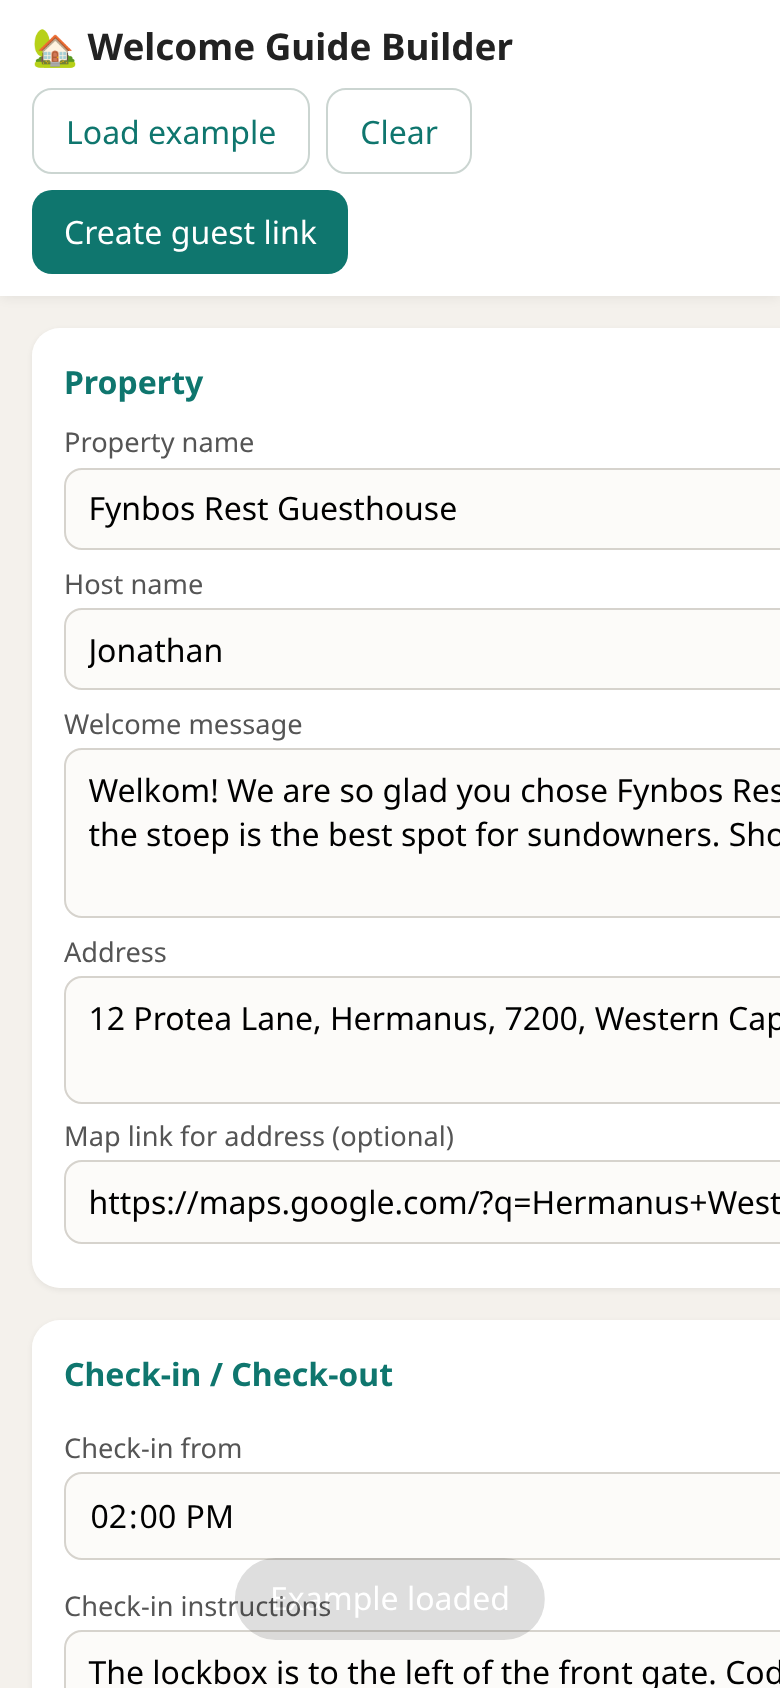
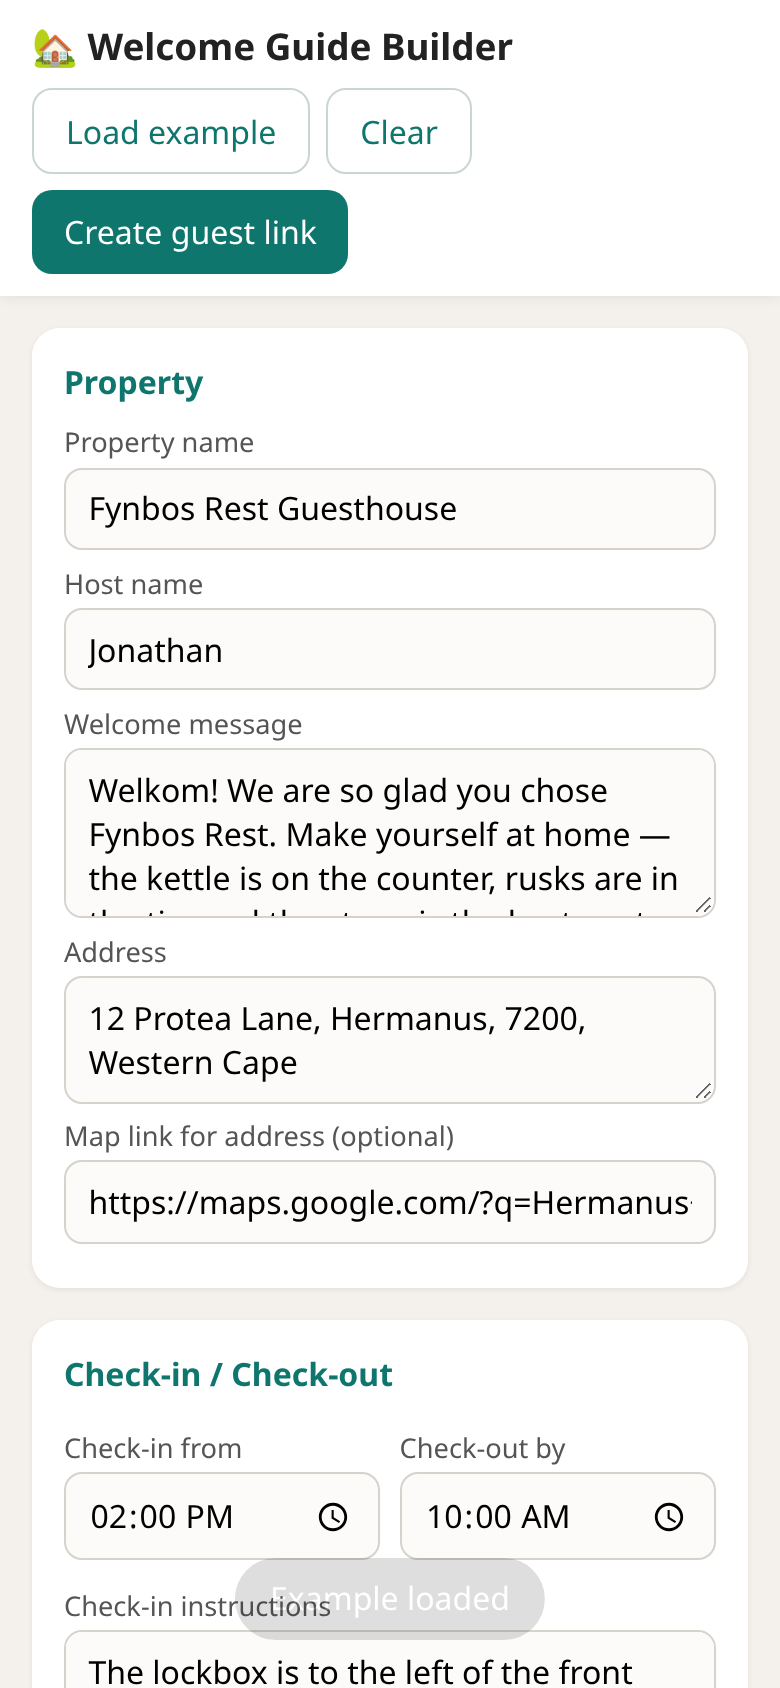
QA fixes: tap targets, labels/hints, intro, edit/preview, QR print/PNG, undo, tick persistence, nav spy

diff --git a/app.js b/app.js
@@ -1,7 +1,10 @@
 (function(){
 const KEY='wg-v1';
 const LISTS={rules:['text'],howto:['title','note'],recs:['name','type','note','map'],emergency:['label','number'],checklist:['text']};
-const PH={text:'',title:'Appliance (e.g. Geyser)',note:'Note',name:'Name',type:'Type (restaurant, beach…)',map:'Map link (optional)',label:'Label',number:'Number'};
+const LB={rules:{text:'Rule'},howto:{title:'Appliance / topic',note:'How it works'},recs:{name:'Place name',type:'Type',note:'Why you recommend it',map:'Map link (optional)'},emergency:{label:'Who (e.g. Armed response)',number:'Phone number'},checklist:{text:'Checkout task'}};
+const EMERG=['10111','10177','112'];
+const PH0={text:'',title:'Appliance (e.g. Geyser)',note:'Note',name:'Name',type:'Type (restaurant, beach…)',map:'Map link (optional)',label:'Label',number:'Number'};
+const PH={text:'',title:'e.g. Load-shedding & inverter, Gate remote',note:'e.g. Inverter runs lights + Wi-Fi; avoid kettle/oven',name:'e.g. Bientang\'s Cave',type:'e.g. Restaurant, Beach',map:'Paste Google Maps share link',label:'e.g. Armed response',number:'e.g. 021 555 1234'};
 const blank=()=>({property:'',host:'',welcome:'',address:'',addressMap:'',checkin:'14:00',checkout:'10:00',checkinNotes:'',checkoutNotes:'',wifiName:'',wifiPass:'',parking:'',hostPhone:'',hostWhatsapp:'',
  rules:[],howto:[],recs:[],checklist:[],emergency:[{label:'Police (SAPS)',number:'10111'},{label:'Ambulance',number:'10177'},{label:'Emergency from mobile',number:'112'}]});
 const EXAMPLE={property:'Fynbos Rest Guesthouse',host:'Jonathan',welcome:'Welkom! We are so glad you chose Fynbos Rest. Make yourself at home — the kettle is on the counter, rusks are in the tin, and the stoep is the best spot for sundowners. Shout if you need anything.',
@@ -20,7 +23,7 @@ const esc=s=>String(s==null?'':s).replace(/[&<>"']/g,c=>({'&':'&amp;','<':'&lt;'
 const tel=n=>String(n).replace(/[^\d+]/g,'');
 const wa=n=>{let d=String(n).replace(/\D/g,'');if(d.startsWith('0'))d='27'+d.slice(1);return d};
 const safeUrl=u=>/^https?:\/\//i.test(u||'')?u:'';
-function toast(m){const t=$('#toast');t.textContent=m;t.classList.add('on');clearTimeout(t._t);t._t=setTimeout(()=>t.classList.remove('on'),1600)}
+function toast(m,undo){const t=$('#toast'),u=$('#toastUndo');$('#toastMsg').textContent=m;u.hidden=!undo;u.onclick=()=>{undo();t.classList.remove('on')};t.classList.add('on');clearTimeout(t._t);t._t=setTimeout(()=>t.classList.remove('on'),undo?5000:1600)}
 async function copy(txt,msg){try{await navigator.clipboard.writeText(txt)}catch(e){const a=document.createElement('textarea');a.value=txt;document.body.appendChild(a);a.select();document.execCommand('copy');a.remove()}toast(msg||'Copied')}
 window.__wgCopy=copy;
 
@@ -36,9 +39,9 @@ function render(d){
  const em=(d.emergency||[]).filter(e=>e.number);let c='';
  if(d.hostPhone)c+=`<div class="contact"><span>Host${d.host?' – '+esc(d.host):''}</span><a class="pill" href="tel:${esc(tel(d.hostPhone))}">📞 Call</a></div>`;
  if(d.hostWhatsapp)c+=`<div class="contact"><span>WhatsApp host</span><a class="pill wa" target="_blank" rel="noopener" href="https://wa.me/${wa(d.hostWhatsapp)}">💬 WhatsApp</a></div>`;
- c+=em.map(e=>`<div class="contact"><span>${esc(e.label)}</span><a class="pill red" href="tel:${esc(tel(e.number))}">📞 ${esc(e.number)}</a></div>`).join('');
+ c+=em.map(e=>`<div class="contact"><span>${esc(e.label)}</span><a class="pill${EMERG.includes(tel(e.number))?' red':''}" href="tel:${esc(tel(e.number))}">📞 ${esc(e.number)}</a></div>`).join('');
  if(c)sec('help','☎ Contacts & emergencies',`<div class="contacts">${c}</div>`);
- const cl=(d.checklist||[]).filter(x=>x.text);if(cl.length||d.checkoutNotes)sec('out','👋 Checkout',`${d.checkoutNotes?`<p class="pre">${esc(d.checkoutNotes)}</p>`:''}<div class="check">${cl.map(x=>`<label><input type="checkbox"> ${esc(x.text)}</label>`).join('')}</div>`);
+ const cl=(d.checklist||[]).filter(x=>x.text);if(cl.length||d.checkoutNotes)sec('out','👋 Checkout',`${d.checkoutNotes?`<p class="pre">${esc(d.checkoutNotes)}</p>`:''}<div class="check">${cl.map((x,i)=>`<label><input type="checkbox" data-ci="${i}"> ${esc(x.text)}</label>`).join('')}</div>`);
  if(!d.property&&!s.length)return '<div class="empty">Start filling in the form — your guest guide appears here.</div>';
  return `<div class="hero"><small>Welcome to</small><h1>${esc(d.property||'Your stay')}</h1>${d.welcome?`<p>${esc(d.welcome)}</p>`:''}${d.host?`<p style="margin-top:.6rem;opacity:.8">— ${esc(d.host)}, your host</p>`:''}</div><nav class="nav">${nav.join('')}</nav>${s.join('')}<div class="foot">Have a wonderful stay ✨</div>`;
 }
@@ -50,27 +53,43 @@ const h=location.hash;
 if(h.startsWith('#g=')){const g=$('#guest');g.hidden=false;let d=null;
  try{d=JSON.parse(LZString.decompressFromEncodedURIComponent(h.slice(3)))}catch(e){}
  if(!d){g.innerHTML='<div class="empty">This guide link looks incomplete. Please ask your host to resend it.</div>';return}
- document.title=(d.property||'Welcome')+' – Guest guide';g.innerHTML=render(d);wire(g);return}
+ document.title=(d.property||'Welcome')+' – Guest guide';g.innerHTML=render(d);wire(g);
+ let hs=0;for(const ch of h)hs=(hs*31+ch.charCodeAt(0))|0;const TK='wg-ticks-'+hs;
+ let ticks=[];try{ticks=JSON.parse(localStorage.getItem(TK)||'[]')}catch(e){}
+ g.querySelectorAll('[data-ci]').forEach(c=>{c.checked=ticks.includes(+c.dataset.ci);c.onchange=()=>{const t=[...g.querySelectorAll('[data-ci]')].filter(x=>x.checked).map(x=>+x.dataset.ci);localStorage.setItem(TK,JSON.stringify(t))}});
+ const nav=g.querySelector('.nav'),chips=[...g.querySelectorAll('[data-jump]')];let cur='';
+ const spy=()=>{let a=chips[0];for(const c of chips){const el=g.querySelector('#s-'+c.dataset.jump);if(el&&el.getBoundingClientRect().top<120)a=c}
+  if(innerHeight+scrollY>=document.documentElement.scrollHeight-4)a=chips[chips.length-1];
+  if(a&&a.dataset.jump!==cur){cur=a.dataset.jump;chips.forEach(c=>c.classList.toggle('active',c===a));nav.scrollTo({left:a.offsetLeft-nav.clientWidth/2+a.offsetWidth/2,behavior:'smooth'})}};
+ if(nav){addEventListener('scroll',spy,{passive:true});spy()}
+ return}
 
 // editor mode
 $('#editor').hidden=false;const form=$('#form');let data;
 try{data=Object.assign(blank(),JSON.parse(localStorage.getItem(KEY)||'null')||{})}catch(e){data=blank()}
 function buildLists(){document.querySelectorAll('[data-list]').forEach(box=>{const k=box.dataset.list,f=LISTS[k];
- box.innerHTML=(data[k]||[]).map((it,i)=>`<div class="item">${f.map(x=>x==='note'&&k==='howto'?`<textarea rows="2" data-k="${k}" data-i="${i}" data-f="${x}" placeholder="${PH[x]}">${esc(it[x])}</textarea>`:`<input data-k="${k}" data-i="${i}" data-f="${x}" placeholder="${k==='rules'?'e.g. No smoking indoors':k==='checklist'?'e.g. Wash dishes':PH[x]}" value="${esc(it[x])}">`).join('')}<button type="button" class="rm" data-rm="${k}" data-i="${i}" aria-label="Remove">✕</button></div>`).join('')})}
+ box.innerHTML=(data[k]||[]).map((it,i)=>`<div class="item">${f.map(x=>`<label class="f">${LB[k][x]}`+(x==='note'&&k==='howto'?`<textarea rows="2" data-k="${k}" data-i="${i}" data-f="${x}" placeholder="${PH[x]}">${esc(it[x])}</textarea>`:`<input data-k="${k}" data-i="${i}" data-f="${x}" placeholder="${k==='rules'?'e.g. No smoking indoors':k==='checklist'?'e.g. Wash dishes':PH[x]}" value="${esc(it[x])}"${k==='emergency'&&x==='number'?' type="tel"':''}>`)+'</label>').join('')}<button type="button" class="rm" data-rm="${k}" data-i="${i}" aria-label="Remove">✕</button></div>`).join('')})}
 function fill(){form.querySelectorAll('[name]').forEach(el=>el.value=data[el.name]||'');buildLists();update()}
 function update(){localStorage.setItem(KEY,JSON.stringify(data));$('#preview').innerHTML=render(data)}
 wire($('#preview'));
 form.addEventListener('input',e=>{const t=e.target;if(t.name)data[t.name]=t.value;else if(t.dataset.k)data[t.dataset.k][+t.dataset.i][t.dataset.f]=t.value;update()});
 form.addEventListener('click',e=>{const a=e.target.closest('[data-add]'),r=e.target.closest('[data-rm]');
  if(a){const k=a.dataset.add;data[k].push(Object.fromEntries(LISTS[k].map(f=>[f,''])));buildLists();update();const ins=form.querySelectorAll(`[data-k="${k}"]`);ins.length&&ins[ins.length-LISTS[k].length].focus()}
- if(r){data[r.dataset.rm].splice(+r.dataset.i,1);buildLists();update()}});
+ if(r){const k=r.dataset.rm,i=+r.dataset.i,[gone]=data[k].splice(i,1);buildLists();update();toast('Item removed',()=>{data[k].splice(i,0,gone);buildLists();update()})}});
 $('#btnExample').onclick=()=>{if(data.property&&!confirm('Replace your current details with the example?'))return;data=JSON.parse(JSON.stringify(EXAMPLE));fill();toast('Example loaded')};
 $('#btnClear').onclick=()=>{if(!confirm('Clear everything?'))return;data=blank();fill()};
 $('#btnLink').onclick=()=>{const clean=JSON.parse(JSON.stringify(data));for(const k in LISTS)clean[k]=clean[k].filter(o=>Object.values(o).some(v=>v));
  const url=location.href.split('#')[0]+'#g='+LZString.compressToEncodedURIComponent(JSON.stringify(clean));
  $('#linkOut').value=url;$('#btnOpen').href=url;$('#linkInfo').textContent=`Link length: ${url.length} characters. If you change the guide, create a new link.`;
- const q=$('#qr');q.innerHTML='';try{const qr=qrcode(0,'L');qr.addData(url);qr.make();q.innerHTML=qr.createSvgTag({cellSize:4,margin:4,scalable:true})}catch(e){q.innerHTML='<p class="hint">Too much content for a QR code — shorten some text, or share the link directly.</p>'}
+ const q=$('#qr');q.innerHTML='';try{const qr=qrcode(0,'L');qr.addData(url);qr.make();q.innerHTML=qr.createSvgTag({cellSize:4,margin:4,scalable:true});lastQR=qr}catch(e){lastQR=null;q.innerHTML='<p class="hint">Too much content for a QR code — shorten some text, or share the link directly.</p>'}
  $('#modal').hidden=false};
+let lastQR=null;
+$('#btnPrint').onclick=()=>{if(!lastQR)return toast('No QR code to print');window.print()};
+$('#btnPng').onclick=()=>{if(!lastQR)return toast('No QR code to download');const n=lastQR.getModuleCount(),cs=10,m=4,sz=(n+m*2)*cs,c=document.createElement('canvas');c.width=c.height=sz;const x=c.getContext('2d');x.fillStyle='#fff';x.fillRect(0,0,sz,sz);x.fillStyle='#000';
+ for(let r=0;r<n;r++)for(let k=0;k<n;k++)if(lastQR.isDark(r,k))x.fillRect((k+m)*cs,(r+m)*cs,cs,cs);
+ const a=document.createElement('a');a.download=((data.property||'guest-guide').replace(/[^\w-]+/g,'-'))+'-qr.png';a.href=c.toDataURL('image/png');document.body.appendChild(a);a.click();a.remove()};
+$('#tabEdit').onclick=()=>{document.body.classList.remove('showPrev');$('#tabEdit').classList.add('on');$('#tabPrev').classList.remove('on');scrollTo(0,0)};
+$('#tabPrev').onclick=()=>{document.body.classList.add('showPrev');$('#tabPrev').classList.add('on');$('#tabEdit').classList.remove('on');scrollTo(0,0)};
 $('#btnCopy').onclick=()=>copy($('#linkOut').value,'Link copied');$('#btnClose').onclick=()=>$('#modal').hidden=true;
 window.addEventListener('hashchange',()=>location.reload());
 fill();

diff --git a/index.html b/index.html
@@ -2,9 +2,14 @@
 <title>Welcome Guide</title><link rel="stylesheet" href="style.css"></head><body>
 <div id="editor" hidden>
  <header class="top"><h1>🏡 Welcome Guide Builder</h1>
-  <div class="actions"><button id="btnExample" class="ghost">Load example</button><button id="btnClear" class="ghost">Clear</button><button id="btnLink" class="primary">Create guest link</button></div></header>
+  <div class="actions"><button id="btnExample" class="ghost">Load example</button><button id="btnClear" class="ghost">Clear</button><button id="btnLink" class="primary">Create guest link</button></div>
+</header>
+ <div class="seg" role="tablist"><button id="tabEdit" class="on">✏ Edit</button><button id="tabPrev">👁 Preview</button></div>
  <main class="wrap">
   <form id="form" class="panel" onsubmit="return false">
+   <div class="intro"><b>How it works</b><ol><li>Fill in your details below (or tap <i>Load example</i> to see one). Everything saves automatically on this phone/browser only.</li><li>Tap <b>Create guest link</b>, then send the link on WhatsApp/email or print the QR code for the unit.</li><li>Guests open it in their phone browser — no app needed.</li></ol>
+   <p>🔒 <b>Privacy:</b> everything you enter (Wi-Fi password, lockbox codes, address) is stored inside the link itself. Anyone with the link or QR code can read it — only share it with booked guests.</p>
+   <p>🔁 <b>Changed something?</b> Make a new link and QR code after every edit. Old links keep showing the old details.</p></div>
    <fieldset><legend>Property</legend>
     <label>Property name<input name="property"></label><label>Host name<input name="host"></label>
     <label>Welcome message<textarea name="welcome" rows="3"></textarea></label>
@@ -15,14 +20,14 @@
     <label>Check-in instructions<textarea name="checkinNotes" rows="3"></textarea></label>
     <label>Check-out instructions<textarea name="checkoutNotes" rows="2"></textarea></label></fieldset>
    <fieldset><legend>Wi-Fi</legend><div class="row"><label>Network name<input name="wifiName"></label><label>Password<input name="wifiPass"></label></div></fieldset>
-   <fieldset><legend>House rules</legend><div class="list" data-list="rules"></div><button type="button" class="add" data-add="rules">+ Add rule</button></fieldset>
-   <fieldset><legend>Appliances &amp; how-to</legend><div class="list" data-list="howto"></div><button type="button" class="add" data-add="howto">+ Add note</button></fieldset>
+   <fieldset><legend>House rules</legend><p class="hint">One rule per line item, e.g. "No smoking indoors".</p><div class="list" data-list="rules"></div><button type="button" class="add" data-add="rules">+ Add rule</button></fieldset>
+   <fieldset><legend>Appliances &amp; how-to</legend><p class="hint">Ideas: load-shedding &amp; the inverter, gate remote / alarm, geyser, braai, DStv/TV, washing machine.</p><div class="list" data-list="howto"></div><button type="button" class="add" data-add="howto">+ Add note</button></fieldset>
    <fieldset><legend>Parking</legend><textarea name="parking" rows="2"></textarea></fieldset>
-   <fieldset><legend>Local recommendations</legend><div class="list" data-list="recs"></div><button type="button" class="add" data-add="recs">+ Add place</button></fieldset>
+   <fieldset><legend>Local recommendations</legend><p class="hint">Map link: in Google Maps, find the place, tap <b>Share → Copy link</b>, and paste it here.</p><div class="list" data-list="recs"></div><button type="button" class="add" data-add="recs">+ Add place</button></fieldset>
    <fieldset><legend>Contacts</legend><div class="row"><label>Host phone<input name="hostPhone" type="tel" placeholder="+27 82 123 4567"></label><label>WhatsApp<input name="hostWhatsapp" type="tel"></label></div>
-    <p class="hint">Emergency numbers (SA defaults — edit as needed)</p><div class="list" data-list="emergency"></div><button type="button" class="add" data-add="emergency">+ Add contact</button></fieldset>
+    <p class="hint">Type numbers as you would dial them, e.g. 082 123 4567 or +27 82 123 4567 — both work. WhatsApp numbers starting with 0 are converted to +27 automatically.</p><p class="hint"><b>Emergency &amp; useful numbers</b> (SA defaults included — edit as needed)</p><div class="list" data-list="emergency"></div><button type="button" class="add" data-add="emergency">+ Add contact</button></fieldset>
    <fieldset><legend>Checkout checklist</legend><div class="list" data-list="checklist"></div><button type="button" class="add" data-add="checklist">+ Add item</button></fieldset>
-   <p class="hint" id="saved">Autosaved on this device.</p>
+   <p class="hint" id="saved">✓ Autosaved on this device.</p>
   </form>
   <section class="previewWrap"><div class="previewLabel">Live guest preview</div><div class="phone"><div id="preview" class="guide"></div></div></section>
  </main>
@@ -30,9 +35,9 @@
   <h2>Guest link ready</h2><p class="hint" id="linkInfo"></p>
   <textarea id="linkOut" rows="4" readonly></textarea>
   <div class="actions"><button id="btnCopy" class="primary">Copy link</button><a id="btnOpen" class="ghost btn" target="_blank">Open</a><button id="btnClose" class="ghost">Close</button></div>
-  <div id="qr"></div><p class="hint">Print this QR code and leave it in the unit.</p></div></div>
+  <div id="qr"></div><p class="hint">Print this QR code and leave it in the unit.</p><div class="actions qrAct"><button id="btnPrint" class="ghost">🖨 Print QR</button><button id="btnPng" class="ghost">⬇ Download QR (PNG)</button></div></div></div>
 </div>
 <div id="guest" class="guide guestPage" hidden></div>
-<div id="toast" class="toast"></div>
+<div id="toast" class="toast"><span id="toastMsg"></span><button id="toastUndo" hidden>Undo</button></div>
 <script src="lib/lz-string.min.js"></script><script src="lib/qrcode.js"></script><script src="app.js"></script>
 </body></html>

diff --git a/style.css b/style.css
@@ -37,3 +37,29 @@ ul.clean{padding-left:1.1rem;margin:0}ul.clean li{margin:.25rem 0}.how{border-le
 .foot{text-align:center;color:#999;font-size:.75rem;padding:1.5rem}.empty{color:#999;text-align:center;padding:3rem 1rem}
 legend+*,fieldset>.row{clear:both}
 fieldset{min-width:0}.wrap>*{min-width:0}
+/* v1.1 QA fixes */
+.sec{scroll-margin-top:74px}
+button,.btn{min-height:44px}
+.pill{min-height:44px;padding:.5em 1em}
+.nav a{min-height:44px;display:inline-flex;align-items:center;font-size:.85rem}.nav a.active{background:#0f766e;color:#fff}
+.check label{min-height:44px}.check input{width:24px;height:24px;flex:none;accent-color:#0f766e}
+.item .rm{min-width:44px;min-height:44px;margin-left:.75rem}
+.item .f{flex:1 1 140px;margin:0;font-size:.8rem}.item .f input,.item .f textarea{margin-top:.15rem}
+.tag{font-size:12px}.hero small{font-size:13px}.hint{font-size:13px}
+.intro{background:#ecfdf5;border:1px solid #a7f3d0;border-radius:14px;padding:.9rem 1rem;margin-bottom:1rem;font-size:14px}.intro ol{margin:.4rem 0;padding-left:1.2rem}.intro p{margin:.4rem 0}
+.seg{display:none}
+.toast{display:flex;gap:.8rem;align-items:center}.toast.on{pointer-events:auto}#toastUndo{background:#14b8a6;color:#fff;min-height:36px;padding:.2em .9em}
+.qrAct{justify-content:center;margin-top:.5rem}
+@media(max-width:900px){
+ .top{position:static;flex-wrap:nowrap;padding:.5rem .8rem}.top h1{font-size:1rem}
+ .top .actions{flex-wrap:nowrap}
+ #btnLink{position:fixed;left:.8rem;right:.8rem;bottom:.8rem;z-index:15;box-shadow:0 4px 14px #0004;font-size:1.05rem}
+ body{padding-bottom:80px}.toast{bottom:84px}
+ .seg{display:flex;position:sticky;top:0;z-index:6;background:#fff;padding:.4rem .8rem;gap:.4rem;box-shadow:0 1px 4px #0001}
+ .seg button{flex:1;background:#f0fdfa;color:#0f766e}.seg button.on{background:#0f766e;color:#fff}
+ .top{flex-wrap:wrap}
+ .previewWrap{display:none}.showPrev .previewWrap{display:block}.showPrev #form{display:none}
+ .phone{border:0;border-radius:0;height:auto}.previewLabel{display:none}.wrap{padding:.6rem}
+}
+@media print{body *{visibility:hidden}#modal,#modal #qr,#modal #qr *,#printTitle{visibility:visible}#modal{position:absolute;inset:0;background:#fff}#modal #qr{position:absolute;top:2cm;left:0;right:0}#modal #qr svg{width:10cm;height:10cm}}
+input,textarea{min-height:44px}
